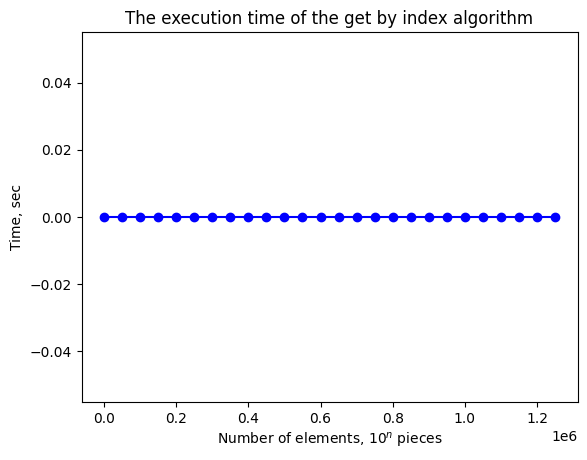
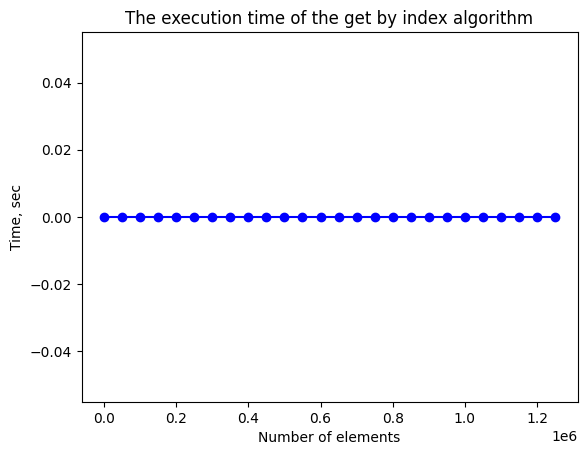
ЛР 1 Вариант 7

diff --git a/37/Вариант 7/Lab_01.md b/37/Вариант 7/Lab_01.md
@@ -1,5 +1,5 @@
 # Эмпирический анализ временной сложности алгоритмов
-Фомин И.Н.  
+Фомин И.Н.
 ИУ10-37
 ## Задания
 ### Задание 1.1
@@ -27,9 +27,9 @@ fig = plt.plot(items, times, 'bo-')
 ax = plt.gca()
 
 plt.title('The execution time of the get by index algorithm')
-ax.set_xlabel('Number of elements, $10^n$ pieces')
+ax.set_xlabel('Number of elements')
 ax.set_ylabel('Time, sec')
-```  
+```
 ![png](Lab_01_files/Lab_01_1_1.png)
     
 
@@ -63,7 +63,7 @@ fig = plt.plot(items, times, 'bo-')
 ax = plt.gca()
 
 plt.title('The execution time of the get multiplication of list numbers algorithm')
-ax.set_xlabel('Number of elements, $10^n$ pieces')
+ax.set_xlabel('Number of elements')
 ax.set_ylabel('Time, sec')
 ```
 ![png](Lab_01_files/Lab_01_3_1.png)
@@ -87,22 +87,25 @@ def get_max(v: list):
 
 
 items = range(1, 10**5 * (20 - 7), 50000)
-func = usage_time.get_usage_time()(multiplication_nums)
+func = usage_time.get_usage_time()(get_max)
 times = [
-    func([
-        random.randint(1, 3) 
-        for _ in range(n)
-    ]) 
+    sum([
+        func([
+            random.randint(1, 10) 
+            for _ in range(n)
+        ])
+        for _ in range(20)
+    ]) / 20
     for n in items
 ]
 
 fig = plt.plot(items, times, 'bo-')
 ax = plt.gca()
 
-plt.title('The execution time of the get multiplication of list numbers algorithm')
-ax.set_xlabel('Number of elements, $10^n$ pieces')
+plt.title('The execution time of the getting max of list numbers algorithm')
+ax.set_xlabel('Number of elements')
 ax.set_ylabel('Time, sec')
-```  
+```
 ![png](Lab_01_files/Lab_01_5_1.png)
     
 
@@ -116,29 +119,90 @@ import matplotlib.pyplot as plt
 
 
 def harmonic_mean(v: list):
-    mean = len(v) / sum(map(
-        lambda x: 1 / x,
-        v
-    ))
+    summ = 0
+    for num in v:
+        summ += 1 / num
+    mean = len(v) / summ
     return mean
 
 
 items = range(1, 10**5 * (20 - 7), 50000)
-func = usage_time.get_usage_time()(multiplication_nums)
+func = usage_time.get_usage_time()(harmonic_mean)
 times = [
-    func([
-        random.randint(1, 3) 
-        for _ in range(n)
-    ]) 
+    sum([
+        func([
+            random.randint(1, 10) 
+            for _ in range(n)
+        ])
+        for _ in range(20)
+    ]) / 20
     for n in items
 ]
 
 fig = plt.plot(items, times, 'bo-')
 ax = plt.gca()
 
-plt.title('The execution time of the get multiplication of list numbers algorithm')
-ax.set_xlabel('Number of elements, $10^n$ pieces')
+plt.title('The execution time of the get harmonic mean of list numbers algorithm')
+ax.set_xlabel('Number of elements')
 ax.set_ylabel('Time, sec')
 ```
 ![png](Lab_01_files/Lab_01_7_1.png)
     
+
+
+### Задание 2
+
+
+```python
+import random, usage_time
+import matplotlib.pyplot as plt
+
+
+def matrix_mult(matrix_a: list, matrix_b: list):
+    matrix_c = [
+        [0 for _ in range(len(matrix_a))]
+        for _ in range(len(matrix_a))
+    ]
+
+    for y in range(len(matrix_a)):
+        for x in range(len(matrix_a)):
+            num = 0
+            for i in range(len(matrix_a)):
+                num += matrix_a[y][i] * matrix_b[i][x]
+            matrix_c[y][x] = num
+    print(len(matrix_a))
+    return matrix_c
+
+
+items = range(1, 10**2 * (20 - 7), 100)
+func = usage_time.get_usage_time()(matrix_mult)
+times = [
+    func(
+        [
+            [
+                random.randint(1, 3)
+                for _ in range(n)
+            ]
+            for _ in range(n)
+        ],
+        [
+            [
+                random.randint(4, 6)
+                for _ in range(n)
+            ]
+            for _ in range(n)
+        ]
+    )
+    for n in items
+]
+
+fig = plt.plot(items, times, 'bo-')
+ax = plt.gca()
+
+plt.title('The execution time of the get matrix multiplication of list numbers algorithm')
+ax.set_xlabel('Number of elements')
+ax.set_ylabel('Time, sec')
+```
+![png](Lab_01_files/Lab_01_9_2.png)
+    
+
